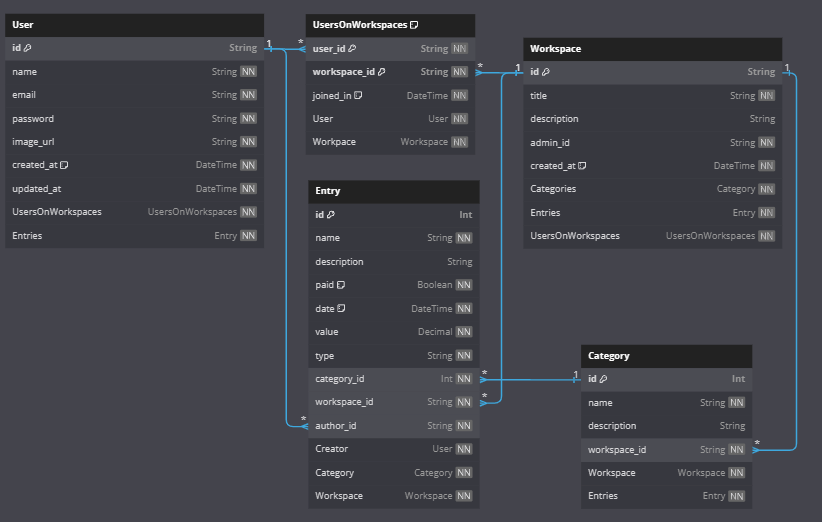
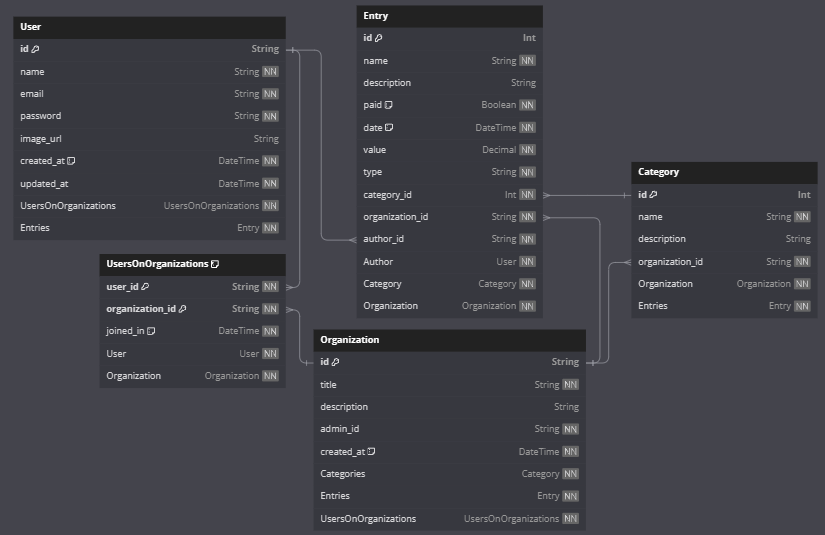
:memo: update diagram image and update on prisma schema

diff --git a/README.md b/README.md
@@ -67,11 +67,13 @@ Para ver a estrutura da aplicação o funcionamento de cada parte da aplicação
 
 ## Estrutura do Banco de Dados
 
-Diagrama de Entidade-Relacionamento (ER) do Banco de Dados
+Diagrama de Entidade-Relacionamento (ER) do Banco de Dados, gerado via linguagem DBML (Database Markup Language) e a plataforma [DB Diagram](https://dbdiagram.io/d)
 
-<center>
-  <img src="./prisma/dbml/diagram.png" alt="Diagrama de Entidade-Relacionamento">
-</center>
+<p align="center">
+  <kbd>
+    <img src="./prisma/dbml/diagram.png" alt="Diagrama de Entidade-Relacionamento">
+  </kbd>
+</p>
 
 ## Outros comandos
 
